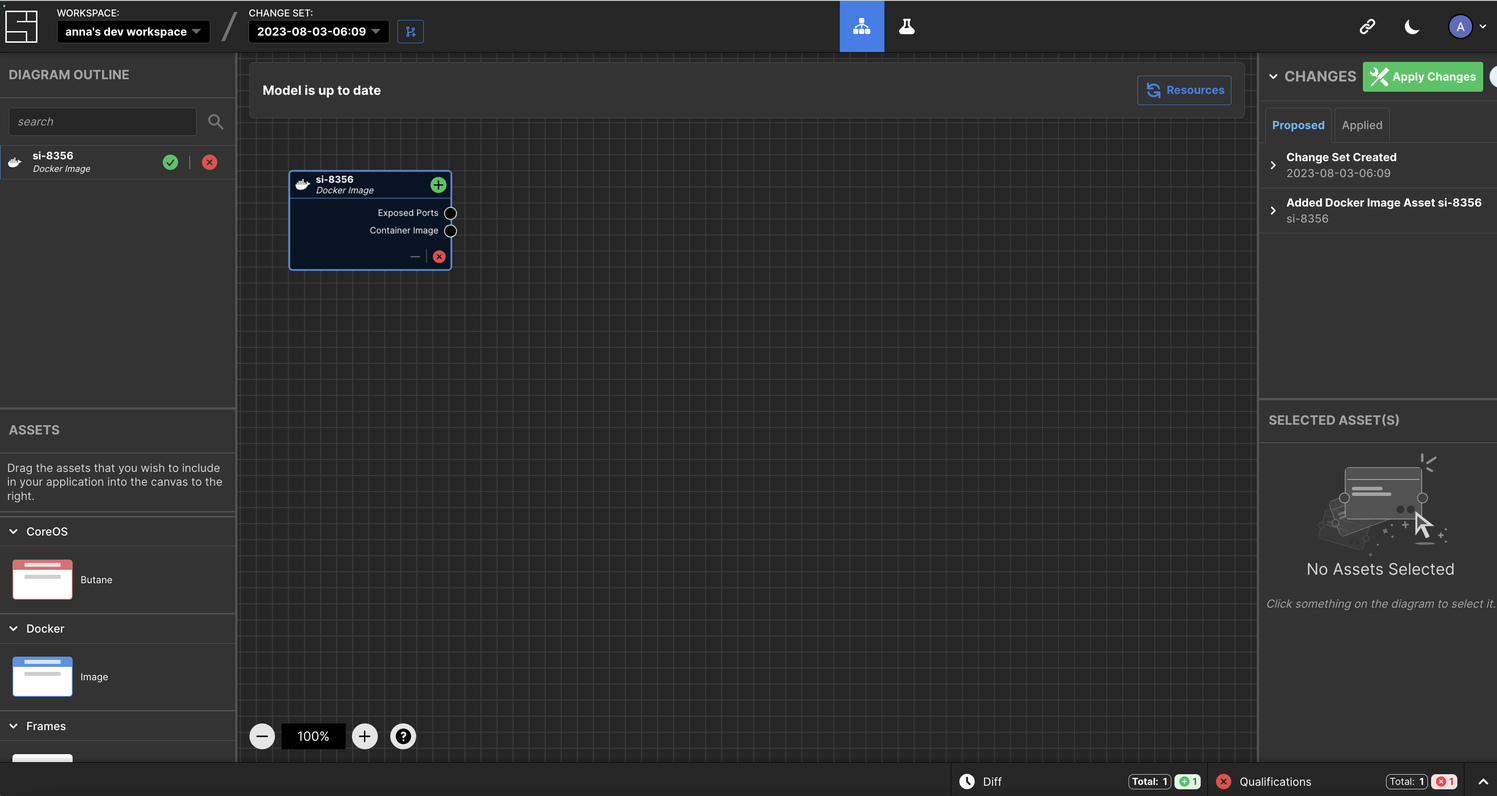
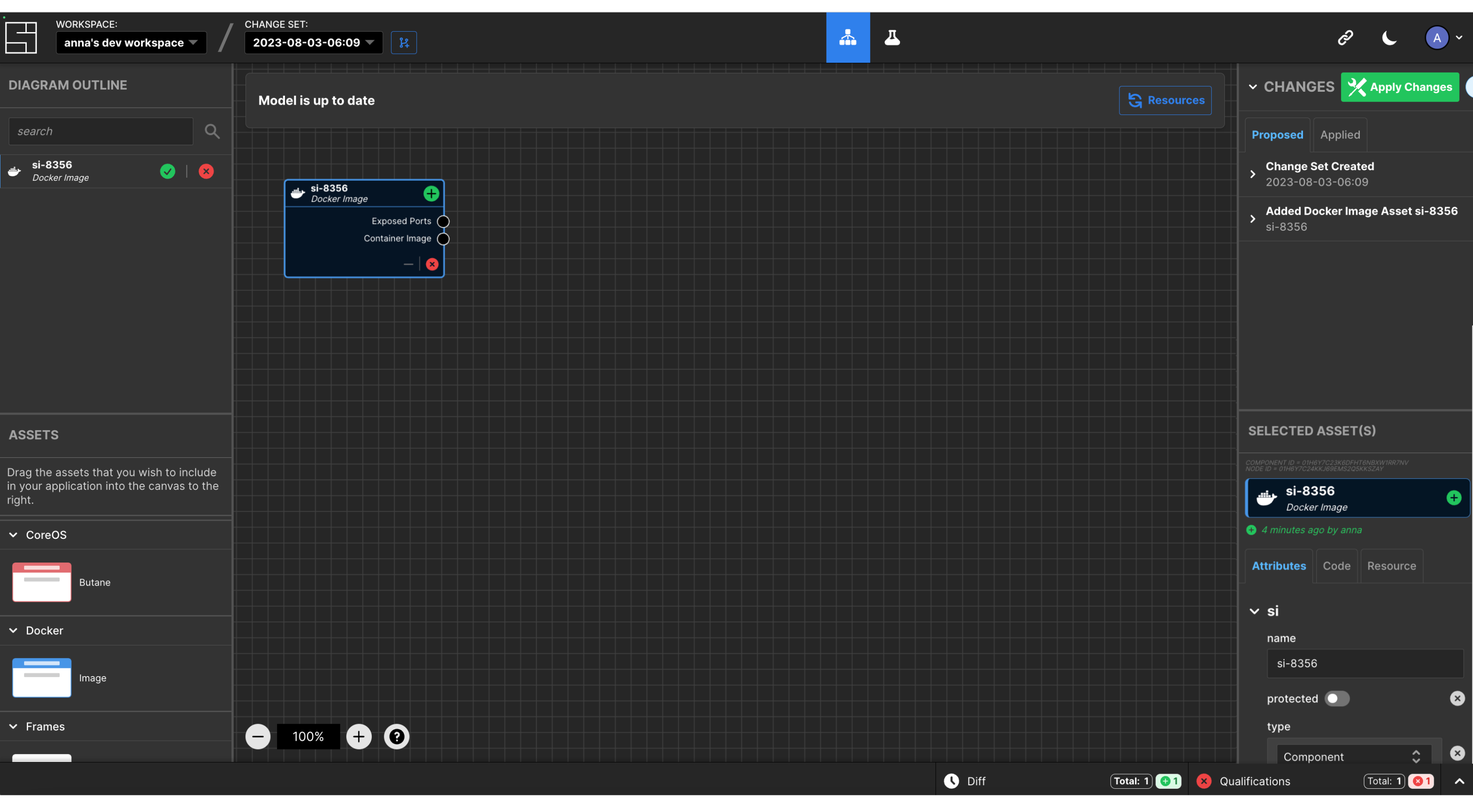
feat(auth-portal): tutorial edits Sat Aug 13 - minor updates

diff --git a/app/auth-portal/src/content/tutorial/03-deploy_containerized_app.md b/app/auth-portal/src/content/tutorial/03-deploy_containerized_app.md
@@ -16,9 +16,10 @@ A few things worth noticing before we get started:
 * The primary navigation bar at the top of the screen has the Model icon selected
 <img src="/tutorial-img/03-deploy_containerized_app/model_icon.png" alt="Model Icon" class="inline" width="5%" height="5%"/> indicating that you want to work on your infrastructure Model. We'll get to the other icon at the top of the screen, for Customization, in a later section of the tutorial. 
 * In the center of the screen is a Canvas where you will design your Model, with a progress bar on top.
-  * **What is a Model?**: In System Initiative, you build a Model of your infrastructure and applications. Think of this Model as a 1:1 simulation of the Resources you want to see in the real world, which provides immediate feedback on requirements and dependencies, and infers configuration on your behalf. You can safely iterate and experiment with your Model as much as you like without applying those changes to the Resources - it is purely a hypothesis about what you believe should exist.
-* In the top left, we have automatically created and named a Change Set for you using the date and timestamp.
-  * **What is a Change Set?**: All of the changes proposed by your Model are made within a Change Set, and when you decide that the Model reflects the reality you want and click `Apply Changes`, System Initiative will take all the proposed changes in the Change Set and apply them in the correct order - creating, configuring, or destroying Resources to bring them in synch with your Model. You can think of a Change Set like a lightweight git branch that auto-rebases on main - where main is the version you believe best reflects the reality you want. We call the 'main' version of your Model the `Head`.
+  * **What is a Model?**: In System Initiative, you build a Model of your infrastructure and applications to simulate the Resources you want to see in the real world. This Model provides immediate feedback on requirements and dependencies, and infers configuration on your behalf. You can safely iterate and experiment with your Model as much as you like without applying those changes to the Resources - it is purely a hypothesis about what you believe should exist.
+* In the top left, you can see that you're on `head`, which is the 'main' version of your model. As soon as you make a change to your Model on the Canvas, System Initiative will automatically create a Change Set for you, giving it a name derived from the date and timestamp.
+  * **What is a Change Set?**: All of the changes proposed by your Model are made within a Change Set, and when you decide that the Model reflects the reality you want and click `Apply Changes`, System Initiative will take all the proposed changes in the Change Set and apply them in the correct order - creating, configuring, or destroying Resources to bring them in synch with your Model. 
+  * If you're familiar with git, you can think of a Change Set like a lightweight git branch that auto-rebases on main - where main is the version you believe best reflects the reality you want. We call the 'main' version of your Model the `Head`.
 * There are four panels on the sides of the Canvas. These can be resized up and down, left and right, to give you more space when you're working on them. 
   * `Diagram Outline Panel` (top left): lists of all the Assets currently being used in your model, with a recap of their current status. 
   * `Asset Panel` (bottom left): a collection of the Assets you can use to build your Model.
@@ -47,9 +48,9 @@ Let's take a minute to walk through all the information we're showing you.
 * Below that is the 'type' of this Asset: a Docker Image.
 * The green 'plus' icon indicates that this Asset was newly added to the Model in this Change Set.
 * Below that are two Output Sockets - one named `Exposed Ports` and the other named `Container Image` (we will go into more detail about these later.)
-* There is a red X warning in the bottom right corner of the Asset, which represents a Qualification failure.
+* There is a red X icon in the bottom right corner of the Asset, which represents a Qualification failure.
   * **What is a Qualification?** 
- Qualifications are like built-in, real-time tests for your Model, letting you know when an Asset has not met all the requirements to function in the real world (i.e., whether it is 'qualified for use'). Qualifications can be built into specific Assets or into the Canvas itself (more on that in the Customization section of this tutorial). 
+ Qualifications are like built-in, real-time tests for your Model, letting you know whether an Asset has met all the requirements to function in the real world (i.e., whether it is 'qualified for use'). Qualifications can be built into specific Assets or into the Canvas itself (more on that in the Customization section of this tutorial). 
 
 You can investigate the Qualification failure in the `Diagram Outline Panel`. Click on the red X to see that your Docker `Image` is not qualified because there is an error parsing the image name: your registry has no Docker `Image` with the name 'si-8356'.
 
@@ -59,11 +60,11 @@ To fix it, we need to configure the Docker `Image` in the Model to point at a va
 
 ![Docker image details panel](/tutorial-img/03-deploy_containerized_app/docker_image_details_panel.png)
 
-In the `Selected Assets Panel` (Attributes tab), change the `si/name` of the Docker `Image` asset to `systeminit/whiskers`. Press 'Enter'. You'll see the progress bar update, and shortly after that, the Qualification icon will turn green, both on the Canvas and in the `Diagram Outline Panel`.
+In the `Selected Assets Panel` change the `si/name` of the Docker `Image` asset to `systeminit/whiskers`. Press 'Enter'. You'll see the progress bar update, and shortly after that the Qualification icon will turn green, both on the Canvas and in the `Diagram Outline Panel`.
 
 Notice that, in addition to setting the `si/name` attribute, this action also sets `domain/image` to the same value. In System Initiative, Assets can infer configuration - either from their attributes or from relationships they have with other Assets. It's a powerful way to generate a correct configuration easily.
 
-Our Docker `Image` exposes a web server running on port 80. Once again, go to the `Selected Assets Panel` (Attributes tab), scroll down to the `domain/ExposedPorts[0]` attribute, and click the `+ Add to array` button. The progress bar will update, and you will see a new field for the ExposedPort.
+Our Docker `Image` exposes a web server running on port 80. Once again, go to the `Selected Assets Panel`, scroll down to the `domain/ExposedPorts[0]` attribute, and click the `+ Add to array` button. The progress bar will update, and you will see a new field for the ExposedPort.
 
 ![Add to array](/tutorial-img/03-deploy_containerized_app/add_to_array.png)
 
@@ -81,7 +82,7 @@ We want you to deploy your Docker Image on a [Fedora CoreOS](https://getfedora.o
 
 You can use the Docker `Image` we just configured to automatically generate a Butane configuration for Fedora: Scroll down the `Asset Panel` to find the CoreOS `Butane` asset, then place it on the Canvas to the right of your Docker `Image`. Notice that your new `Butane` Asset has a `Container Image` input socket on the left side.
 
-Connect the `Container Image` output socket of the Docker `Image` to the matching `Container Image` input socket on your new `Butane` asset by clicking the output socket and dragging the line to the input socket.
+Connect the `Container Image` output socket of the Docker `Image` to the matching input socket on your new `Butane` asset by clicking and dragging the line between them.
 
 ![Connected sockets](/tutorial-img/03-deploy_containerized_app/connected_sockets.png)
 
@@ -99,48 +100,54 @@ You'll see that System Initiative used the relationship between the Docker `Imag
 
 #### Modeling the deployment of your CoreOS instance to AWS 
 
-You'll need to pick a Region for your deployment. Select the AWS `Region` asset from the `Asset Panel`, and drop it on the Canvas to the right of your `Butane` configuration.
+You'll need to pick a __Region__ for your deployment. Select the AWS `Region` asset from the `Asset Panel`, and drop it on the Canvas to the right of your `Butane` configuration.
 
-![Canvas with region](/tutorial-img/03-deploy_containerized_app/workspace_with_region.png)
+![Canvas with region](/tutorial-img/03-deploy_containerized_app/canvas_with_region.png)
 
-Notice that this Asset looks different from the previous two! An AWS `Region` is a configuration 'frame,' meaning that any Asset placed inside is automatically configured by it.
+Notice that this Asset looks different from the previous two. An AWS `Region` is a configuration 'frame,' meaning that any Asset placed inside is automatically configured by it.
 
-You will see a red Qualification failure on the `Region`. Investigate in the `Diagram Outline Panel`, and you'll learn that it appears because you haven't decided which AWS Region to use. Select the `Region` frame, and go to the `Selected Assets Panel` (Attributes tab). Set the `domain/region` attribute to `us-east-2`. When the Qualification for this `Region` turns from a red X to a green check - you're good to go. Notice System Initiative has also helpfully inferred the `si/name` of the `Region` for you!
+You will see a red Qualification failure on the `Region`. Investigate in the `Diagram Outline Panel` and you'll see the cause: you haven't yet decided which AWS Region to use. With the `Region` frame selected, go to the `Selected Assets Panel`, and set the `domain/region` attribute to `us-east-2`. When the Qualification for this `Region` turns from a red X to a green check - you're good to go. Notice System Initiative has also helpfully inferred the `si/name` of the `Region` for you!
 
-Resize the `Region` frame to be larger by clicking and dragging the corner of the frame. You can see in the lower right corner of the frame that it is not qualified - that's because you haven't decided which AWS Region to use.
+Resize the `Region` frame to be larger by clicking and dragging the corner of the frame. 
 
 ![Set the region](/tutorial-img/03-deploy_containerized_app/set_the_region.png)
 
-The application runs on an EC2 Instance, so let's model it. Select the AWS `EC2 Instance` asset from the `Asset Panel`, and click to place it inside the `Region` frame on the Canvas. You can then click and drag the `EC2 Instance` into the upper right corner of the `Region` frame. A couple of things to notice:
+The application runs on an __EC2 Instance__, so let's model it. Select the AWS `EC2 Instance` asset from the `Asset Panel`, and click to place it inside the `Region` frame on the Canvas. You can then click and drag the `EC2 Instance` into the upper right corner of the `Region` frame. 
 
-* You can see two red icons on your `EC2 Instance`: 
-  * __A red X qualification failure:__ like the one we saw earlier, means you need to configure the Asset. You can ignore this for now - we'll come back to it once we have connected the `EC2 Instance` input sockets to other Assets. Ignore these for now - we'll come back to them shortly.
-  * __A red tools Changes notification:__ just notifies you that this Asset does not exist yet. It will exist once you click `Apply Changes` (a little later, once we're finished modeling), and this notification will resolve.   
+* Investigate the two red icons on your `EC2 Instance` by clicking on the `Diagram Outline Panel`: 
+  * A red X Qualification failure: like the one we saw earlier, which means you need to configure the Asset. You can ignore this for now - we'll come back to it once we have connected the `EC2 Instance` input sockets to other Assets.
+  * A red tools 'Changes' notification: which just notifies you that this Resource does not exist yet. It will exist once you click `Apply Changes` (a little later, once we're finished modeling), and this notification will resolve.   
 * You can see that the `Region` input socket on the `EC2 Instance` is already filled - configured by the `Region` frame in which it sits.
 
 Things should look like this:
 
 ![Ec2 Instance in Region Frame](/tutorial-img/03-deploy_containerized_app/ec2_instance_in_region_frame.png)
 
-Let's work backward, connecting everything your `EC2 Instance` needs to function. Your `Butane` configuration has a matching `User Data` output socket to your new `EC2 Instance`'s `User Data` input socket. Let's connect them now.
+Let's work backward, connecting all the things your `EC2 Instance` needs in order to function. Your `Butane` configuration has a matching `User Data` output socket to your new `EC2 Instance`'s `User Data` input socket. Go ahead and connect them now.
 
 ![Connected Inside a Region](/tutorial-img/03-deploy_containerized_app/connected_inside_a_region.png)
 
-With the `EC2 Instance` selected, you can look to the `Selected Assets Panel` to check that the user data has been populated: 
-* in the Attributes tab, look at the `domain/UserData` field; or 
-* in the Code tab, look at the generated JSON code.
+With the `EC2 Instance` selected, you can look to the `Selected Assets Panel` to check that the user data has been populated: in the Attributes tab, look at the `domain/UserData` field; and in the Code tab, look at the generated JSON code.
 
-Working through the input sockets of your `EC2 Instance` from top to bottom, you can see that the next thing you will need is a Security Group ID. Grab a `Security Group` from the `Asset Panel`, drop it into the `Region` frame, and connect it to the `EC2 Instance`. I like to place the `Security Group` in the upper left corner of the `Region` frame. The `Security Group` is already qualified with a green checkmark. Easy! 
+Let's work through the input sockets of your `EC2 Instance` from top to bottom: 
+The next socket is for a __Security Group__ ID. 
+* Grab a `Security Group` from the `Asset Panel`, drop it into the `Region` frame (I like to place the `Security Group` in the upper left corner of the `Region` frame). 
+* connect it to the `EC2 Instance`.
+* The `Security Group` is already qualified with a green checkmark. Easy! 
+* The `Security Group` has a red tools 'Changes' notification - like the one we saw earlier on the `EC2 Instance` - which lets you that this Resource does not exist yet. This will resolve later, when you click `Apply Changes`.
 
-A cat adoption website that nobody can reach from the outside world would be a sad, lonely website. To fix that, you need to add an Ingress rule to your `Security Group`. Select the AWS `Ingress` asset from the Asset Panel, and place it in the `Region` frame. I like to put it right in the middle of the Frame. 
+![Security Group Added](/tutorial-img/03-deploy_containerized_app/security_group_added.png)
 
-Connect it up to the other Assets:  
+A cat adoption website that nobody can reach from the outside world would be a sad, lonely website. To fix that, you need to add an __Ingress rule__ to your `Security Group`. 
+* Select the AWS `Ingress` asset from the Asset Panel, and place it in the `Region` frame (I like to put it right in the middle of the Frame). 
 * Connect the `Security Group` to the `Ingress` rule. 
-* Then, notice that the `Ingress` asset has an input socket named `Exposed Ports` - which matches an output socket on your Docker `Image`. Connect the Docker `Image` to the `Ingress` rule. 
+* Notice that the `Ingress` asset has an input socket named `Exposed Ports` - which matches an output socket on your Docker `Image`. Connect the Docker `Image` to the `Ingress` rule. 
 
 ![Connect a Security Group and Ingress Rule](/tutorial-img/03-deploy_containerized_app/connect_a_security_group_and_ingress_rule.png)
 
-Your `Ingress` rule has an orange warning on Qualification status. Click the warning icon in the `Diagram Outline Panel`, and you can see why:
+Investigate the `Ingress` rule in the `Diagram Outline Panel`: 
+* Your `Ingress` rule has a red tools 'Changes' notification. You probably know by now that this is just letting you know the Resource doesn't exist yet. 
+* It also has has an orange Qualification warning. Click on the warning icon in the `Diagram Outline Panel` to see why:
 
 ![Warning on Ingress](/tutorial-img/03-deploy_containerized_app/warning_on_ingress.png)
 
@@ -148,17 +155,21 @@ The configuration for this `Ingress` rule isn't qualified for use (yet!) - for i
 
 Investigate some automation in your model:  
 * Select the `Ingress` rule, and switch to the Code tab in the `Selected Assets Panel`. Check out how System Initiative has written the `IpPermissions` automatically. You now have a single configuration attribute, the ExposedPorts of your Docker `Image`, automatically configuring the Operating System, EC2 User Data, and your `Ingress` rule.
-* Select your Docker `Image`, go to the `Selected Assets Panel` (Attributes tab), and change the ExposedPort to <code>8080/tcp</code> rather than <code>80/tcp</code>. You will see System Initiative calculate the scope of the update, then show that it is updating the configuration of all 3 impacted Assets on the Canvas! That was fun, but let's switch it back to port 80. Select the Docker `Image`, go to the `Selected Assets Panel` (Attributes tab), and change ExposedPort back to 80/tcp.
+* Select your Docker `Image`, go to the `Selected Assets Panel` (Attributes tab), and change the ExposedPort to <code>8080/tcp</code> rather than <code>80/tcp</code>. You will see System Initiative calculate the scope of the update, then show that it is updating the configuration of all 3 impacted Assets on the Canvas! That was fun, but let's switch it back to port 80. Select the Docker `Image`, go to the `Selected Assets Panel`, and change ExposedPort back to 80/tcp.
 
-Returning to your `EC2 Instance`'s input sockets, the next socket is the Key Name. AWS EC2 uses SSH Key Pairs to authenticate to the instances you boot. Add a `Key Pair` asset from the `Asset Panel` to your `Region` frame, right underneath your `Ingress` rule, and connect it to your `EC2 Instance`. The `Key Pair` is already qualified with a green checkmark, so you know the configuration looks good. 
+Returning to your `EC2 Instance`'s input sockets, the next socket is the Key Name. AWS EC2 uses SSH __Key Pairs__ to authenticate to the instances you boot. 
+* Add a `Key Pair` asset from the `Asset Panel` to your `Region` frame, right underneath your `Ingress` rule. 
+* Connect it to your `EC2 Instance`. 
+* Your `Key Pair` has a red tools 'Changes' notification to remind you that the Resource doesn't exist yet. 
+* The `Key Pair` is already qualified with a green checkmark, so you know the configuration looks good. 
 
 ![Key Pair joins the party](/tutorial-img/03-deploy_containerized_app/key_pair_joins_the_party.png)
 
-There is one more open input socket on the `EC2 Instance`: the `Image ID` socket. In AWS EC2, you use an AMIs ID as the Image ID.
+There is one more open input socket on the `EC2 Instance`: the Image ID socket. In AWS EC2, you use an __AMI ID__ as the Image ID.
 
-* Click the AWS `AMI` asset in the `Asset Panel`, then place it within the `Region` frame on the Canvas below the `Key Pair`. 
-* Connect the `Image ID` output socket on the `AMI` to the corresponding input socket on the `EC2 Instance`. 
-* Click on the Qualification failure in the `Diagram Outline Panel` to see that it needs an Image ID or a Filter. To address this, select the `AMI` and go to the `Selected Assets Panel` (Attributes tab) and populate <code>domain/ImageId</code> with <code>ami-0ed17ac79c5602c98</code> ([or the latest AMI for us-east-2 available on the CoreOS Download page](https://getfedora.org/en/coreos/download?tab=cloud_launchable&stream=stable&arch=x86_64)). Click Enter and see the Qualification for this `AMI` asset turn from a red X to a green checkmark.
+* Click the AWS `AMI` asset in the `Asset Panel`, then place it within the `Region` frame on the Canvas below the `Key Pair`.
+* Connect the `Image ID` output socket on the `AMI` to the corrresponding input socket on the `EC2 Instance`. 
+* Click on the Qualification failure in the `Diagram Outline Panel` to see that it needs an Image ID or a Filter. To address this, select the `AMI` and go to the `Selected Assets Panel` and populate <code>domain/ImageId</code> with <code>ami-0ed17ac79c5602c98</code> ([or the latest AMI for us-east-2 available on the CoreOS Download page](https://getfedora.org/en/coreos/download?tab=cloud_launchable&stream=stable&arch=x86_64)). Click Enter and see the Qualification for this `AMI` asset turn from a red X to a green checkmark.
 
 ![AMI joins the party](/tutorial-img/03-deploy_containerized_app/ami_joins_the_party.png)
 
@@ -168,14 +179,14 @@ Let's look again at the Qualifications on your `EC2 Instance` by clicking the re
 
 ![Qualification warning and failure remain](/tutorial-img/03-deploy_containerized_app/Qualification_warning_and_failure_remain.png) 
 
-Select the `EC2 Instance`, go to the `Selected Assets Panel`, (Attributes tab), scroll down to the `domain/InstanceType` attribute, and set it to <code>t3.micro</code>. The red Qualification failure icon on this Asset will disappear, leaving just the orange Qualification warning in its place. 
+Select the `EC2 Instance`, go to the `Selected Assets Panel`, scroll down to the `domain/InstanceType` attribute, and set it to <code>t3.micro</code>. The red Qualification failure icon on this Asset will disappear, leaving just the orange Qualification warning in its place. 
 
-Review the `Diagram Outline Panel`: 
-* **Four Changes notifications (red tools)**: (no action needed)
-  * Each of the four AWS Assets you used has a red tools Changes notification, which tells you that this resource does not exist yet. 
-  * These Resources will be created once you click `Apply Changes` in a moment. Once they exist, these Confirmations will turn green.
+Review the `Diagram Outline Panel`:
+* **Four 'Changes' notifications (red tools)**: (no action needed)
+  * Each of the four AWS Assets you used has a red tools 'Changes' notification, which are telling you that these resource does not exist yet. 
+  * These Resources will be created once you click `Apply Changes` in a moment. Once they exist, these notifications will turn green.
 
-* **Two Qualification warnings (orange exclamation point)**: (no action needed) 
+* **Two Qualification warnings (orange exclamation points)**: (no action needed) 
   * As mentioned earlier, there's an orange Qualification warning on the `Ingress` rule, which will be qualified for use once the `Security Group` is created and passes the Group ID through. 
   * There's also an orange Qualification warning on the `EC2 Instance`, which will be qualified for use once the `Key Pair` is created. 
 
@@ -184,7 +195,7 @@ Review the `Diagram Outline Panel`:
 
 ### Apply your changes
 
-In System Initiative, like in life, you can imagine as many potential realities as you would like - but in the end, you have to pick which one to manifest into the universe. This Model looks good - all the Qualifications are green (with one expected warning). Let's ship it.
+In System Initiative, like in life, you can imagine as many potential realities as you would like - but in the end, you have to pick which one to manifest into the universe. This Model looks good - all the Qualifications are green (with two expected warnings). Let's ship it.
 
 To see the changes your Model has proposed, expand the `Changes Panel` at the top right side of your Canvas and review the Proposed Changes tab. It'll look like this: 
 
@@ -194,7 +205,7 @@ In most cases, you will not worry about the toggles in the Proposed Changes tab 
 
 ![Apply Change Set](/tutorial-img/03-deploy_containerized_app/apply_change_set.png)
 
-You will see a screen wipe, followed by a confetti cannon. The progress bar will start updating, and the Assets on the Canvas will have a spinner that indicates System Initiative is evaluating them against AWS. When it's done, the screen will look like this:
+You will see a screen wipe, followed by a confetti cannon. The progress bar will start updating, and the Assets on the Canvas will have a spinner that indicates System Initiative is evaluating them against AWS, and creating and configuring the Resources you modeled. When it's done, the screen will look like this:
 
 ![Applied Changes](/tutorial-img/03-deploy_containerized_app/applied_changes.png)
 
@@ -203,17 +214,11 @@ Three things to notice about the screen in front of you:
 
  * The `Changes Panel` now shows only Applied Changes and no longer contains a Proposed Changes tab.
 
-* Looking at both the Canvas and the `Diagram Outline Panel`, the red Confirmations have turned green - your Model now matches the Resources we expected in AWS.
+* Looking at both the Canvas and the `Diagram Outline Panel`, the red tools 'Changes' notifications have now turned green. The Resources you modeled now exist in AWS, so there are no proposed Changes remaining. 
 
 Note that any new changes made to the Model will automatically open a new Change Set and will appear in the `Changes Panel` as `Proposed Changes`.
 
-You can inspect the data about your created Resources by clicking the chevrons in the `Applied Changes` tab. For example, look at the Resource properties that were received as a result of creating your new `EC2 Instance`:
-
-![Inspect Pending EC2 Instance in fix output](/tutorial-img/03-deploy_containerized_app/inspect_pending_ec2_instance_in_fix_output.png)
-
-Of particular interest is the fact that your `EC2 Instance` has a 'State' of 'pending' - that means that it hasn't yet finished being created in AWS.
-
-To see if you successfully started your application, you need to click the blue `Refresh Resources` <img src="/tutorial-img/03-deploy_containerized_app/refresh_button.png" alt="refresh button" class="inline"> button and once AWS has provisioned your `EC2 Instance,` the State will switch to running.
+You can inspect the data about your created Resources by selecting the relevant Asset and clicking the on the Resources tab of the `Selected Assets Panel`. Try it with your `EC2 Instance`: open the Resources tab, and notice that once AWS has provisioned your `EC2 Instance` the State will switch to running.
 
 ![Running state on Ec2 Instance](/tutorial-img/03-deploy_containerized_app/running_state_on_ec2_instance.png)
 
@@ -238,7 +243,7 @@ If you want to walk through the action steps of this tutorial - without the cont
 
 ## 1. Add and Configure a Docker Image:
 * **Add a Docker `Image`** asset to the Canvas from the `Asset Panel`. You will see the progress bar update, indicating that System Initiative is updating the Model of your infrastructure.
-* **Investigate the Qualification failure** by clicking the red X in the `Diagram Outline Panel`. The error arises because your registry has no Docker `Image` with that name (in the screenshot example, it's 'si-2660'). 
+* **Investigate the Qualification failure** by clicking the red X in the `Diagram Outline Panel`. The failure arises because your registry has no Docker `Image` with that name (in the screenshot example, it's 'si-8356'). 
 * **Configure the Asset** 
   * Go to the `Selected Assets Panel` and change the `si/name` of the Docker `Image` asset to `systeminit/whiskers`. Press 'Enter'. 
   * Go to the `Selected Assets Panel`, scroll down to `domain/ExposedPorts[0]`, and click on the `+ Add to array` button. In the new field for the ExposedPort, enter the value `80/tcp` and click 'Enter'.
@@ -251,53 +256,56 @@ If you want to walk through the action steps of this tutorial - without the cont
 
 ## 3. Add and Configure an AWS Region**: 
 * **Add an AWS `Region` frame** to the Canvas from the `Asset Panel` and resize it to be a little larger by clicking and dragging the corner of the frame.
-* **Investigate the Qualification failure** in the `Diagram Outline Panel`, and you'll learn that it appears because you haven't decided which AWS Region to use. 
-* **Configure the Asset** to resolve the Qualification failure. Select the `Region` frame, and go to the `Selected Assets Panel` (Attributes tab). Set the `domain/region` attribute to `us-east-2`. 
+* **Investigate the Qualification failure** in the `Diagram Outline Panel`, and you'll learn that the failure appears because you haven't decided which AWS Region to use. 
+* **Configure the Asset** to resolve the Qualification failure. Select the `Region` frame, and go to the `Selected Assets Panel`. Set the `domain/region` attribute to `us-east-2`. 
 * The Qualification for this `Region` turns from a red X to a green checkmark. 
 
 ## 4. Add and Configure an EC2 Instance** 
 * **Add an AWS `EC2 Instance`** and drop it inside the `Region` Frame. I like to put it in the top right corner of the `Region` frame.
 * **Connect** your `Butane` configuration's `User Data` output socket to your `EC2 Instance`'s `User Data` input socket. 
 * **Investigate the Qualification failures** in the `Diagram Outline Panel`, and click 'view details' to see what needs to be done. There are multiple issues here, and some will be resolved as we connect the EC2 instance input sockets to other Assets. Ignore these for now - we'll come back to them shortly. 
+* **No action on the red tools 'Changes' notification**: which just notifies you that this Resource does not exist yet. 
 
 ## 5. Add and Configure a Security Group
 * **Add a `Security Group`** to the top left of the Frame.
 * **Connect** the `Security Group` to the `EC2 Instance`. 
 * **Check for Qualification failures**: The `Security Group` is already qualified with a green checkmark. Easy! 
+* **No action on the red tools 'Changes' notification**: which just notifies you that this Resource does not exist yet. 
 
 ## 6. Add and Configure an Ingress rule**
 * **Add an AWS `Ingress` asset** from the `Asset Panel`, and place it in the middle of the `Region` frame. 
 * **Connect** the `Security Group` to the `Ingress` rule via their `Security Group ID` sockets. 
 * **Connect** the Docker `Image` to the `Ingress` rule via their `Exposed Ports` sockets. 
 * **Investigate the orange Qualification warning** in the `Diagram Outline Panel`. It needs a Security Group ID, which will be passed through as soon as you `Apply Changes` and the `Security Group` is created. Ignore it for now. 
+* **No action on the red tools 'Changes' notification**: which just notifies you that this Resource does not exist yet. 
 
 ## 7. Add and Configure a Key Pair
 * **Add a `Key Pair`** from the `Asset Panel` to your `Region` frame, right underneath your `Ingress` rule
 * **Connect** the `Key Pair` to your `EC2 Instance`.
 * **Check for Qualification failures**: The `Key Pair` is already qualified with a green checkmark. Easy! 
+* **No action on the red tools 'Changes' notification**: which just notifies you that this Resource does not exist yet. 
 
 ## 8. Add and Configure an AMI asset 
 * **Add an AWS `AMI` asset** to the `Region` frame below the `Key Pair`.
 * **Connect** the `Image ID` output socket on the `AMI` to the `Image ID` input socket on the `EC2 Instance`.
 * **Investigate the Qualification failure** in the `Diagram Outline Panel`. It needs an Image ID or a Filter. 
- * **Configure the `AMI` asset** to get rid of the Qualification failure. Go to the `Selected Assets Panel` (Attributes tab) and populate the Attribute <code>domain/ImageId</code> with <code>ami-0ed17ac79c5602c98</code> ([or the latest AMI for us-east-2 available on the CoreOS Download page](https://getfedora.org/en/coreos/download?tab=cloud_launchable&stream=stable&arch=x86_64)). Click Enter.
+ * **Configure the `AMI` asset** to get rid of the Qualification failure. Go to the `Selected Assets Panel` and populate the Attribute <code>domain/ImageId</code> with <code>ami-0ed17ac79c5602c98</code> ([or the latest AMI for us-east-2 available on the CoreOS Download page](https://getfedora.org/en/coreos/download?tab=cloud_launchable&stream=stable&arch=x86_64)). Click Enter.
  * The Qualification for this `AMI` asset turns from a red X to a green checkmark.
 
 ## 9. Return to finish configuring the EC2 instance
 * **Investigate the Qualification failure** in the `Diagram Outline Panel`. You need to configure the `/domain/InstanceType` attribute for your `EC2 Instance`. Let's fix that now. 
- * **Configure the `EC2 Instance`** to get rid of the Qualification failure. Select the `EC2 Instance`, go to the `Selected Assets Panel` (Attributes tab), scroll down to the `domain/InstanceType` attribute, and set it to <code>t3.micro</code>. 
+ * **Configure the `EC2 Instance`** to get rid of the Qualification failure. Select the `EC2 Instance`, go to the `Selected Assets Panel`, scroll down to the `domain/InstanceType` attribute, and set it to <code>t3.micro</code>. 
  * The Qualification for this `EC2 Instance` turns from a red X to a green checkmark.
 
 ## 10. Review the Diagram Outline Panel
-* **Four Changes notifications (red tools)**: (no action needed) These notifications tell you that the four AWS Assets you modeled don't exist yet. Once you click `Apply Changes` to create these resources, these Confirmations will turn green.
+* **Four 'Changes' notifications (red tools)**: (no action needed) These notifications tell you that the four AWS Assets you modeled don't exist yet. Once you click `Apply Changes` to create these resources, these notifications will turn green.
 * **Two Qualification warnings (orange explamation point)**: (no action needed) As mentioned earlier, there's a Qualification warning on the `Ingress` rule, will resovlve once the `Security Group` is created. There's also an orange Qualification warning on the `EC2 Instance`, which will be resolved once the `Key Pair` is created.  
 * Looks like we're good to go! 
 
 ## 11. Apply your changes
 * **Click the `Apply Changes` button**, and click it again to confirm the changes. 
-* **Investigate the `Diagram Outline Panel`**: The red tools Confirmation warnings have now turned green - your Model now matches the Resources we expected in AWS.
-* **Refresh resources**: Once the model has fully updated, click the blue `Refresh Resources` <img src="/tutorial-img/03-deploy_containerized_app/refresh_button.png" alt="refresh button" class="inline"> button so that the state will switch to running as soon as AWS has provisioned your `EC2 Instance`.
+* **Investigate the `Diagram Outline Panel`**: The red tools 'Changes' notifications have now turned green - your Model now matches the Resources we expected in AWS.
 
 ## 12. Check out your new website
-* Select your `EC2 Instance` and look in the `Selected Assets Panel`, click the Code tab, and find the `PublicIpAddress` in the JSON output.
+* Select your `EC2 Instance` and look in the `Selected Assets Panel`, click the Resources tab, and find the `PublicIpAddress` in the JSON output.
 * Open a new tab in your web browser, and navigate to the address over http (no SSL for these kitties!). You should see the new website for Whiskers R We!
